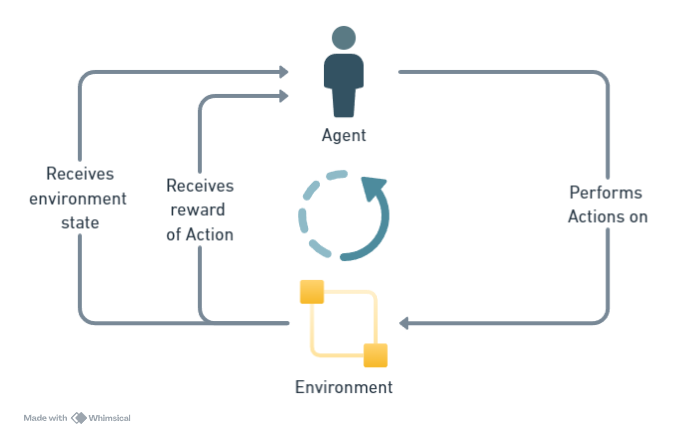
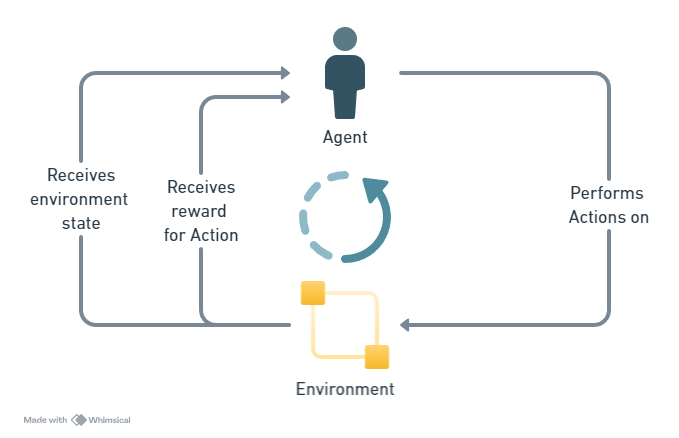
changed readme and did one last run

diff --git a/visualise.py b/visualise.py
@@ -1,0 +1,181 @@
+
+from numpy import average
+
+import warnings
+
+import graphviz
+import matplotlib.pyplot as plt
+import numpy as np
+
+
+def plot_stats(statistics, ylog=False, view=False, filename='avg_fitness.svg'):
+    """ Plots the population's average and best fitness. """
+    if plt is None:
+        warnings.warn("This display is not available due to a missing optional dependency (matplotlib)")
+        return
+
+    generation = range(len(statistics.most_fit_genomes))
+    best_fitness = [c.fitness for c in statistics.most_fit_genomes]
+    avg_fitness = np.array(statistics.get_fitness_mean())
+    stdev_fitness = np.array(statistics.get_fitness_stdev())
+
+    plt.plot(generation, avg_fitness, 'b-', label="average")
+    plt.plot(generation, avg_fitness - stdev_fitness, 'g-.', label="-1 sd")
+    plt.plot(generation, avg_fitness + stdev_fitness, 'g-.', label="+1 sd")
+    plt.plot(generation, best_fitness, 'r-', label="best")
+
+    plt.title("Population's average and best fitness")
+    plt.xlabel("Generations")
+    plt.ylabel("Fitness")
+    plt.grid()
+    plt.legend(loc="best")
+    if ylog:
+        plt.gca().set_yscale('symlog')
+
+    plt.savefig(filename)
+    if view:
+        plt.show()
+
+    plt.close()
+
+
+def plot_spikes(spikes, view=False, filename=None, title=None):
+    """ Plots the trains for a single spiking neuron. """
+    if plt is None:
+        warnings.warn("This display is not available due to a missing optional dependency (matplotlib)")
+        return
+
+    t_values = [t for t, I, v, u in spikes]
+    v_values = [v for t, I, v, u in spikes]
+    u_values = [u for t, I, v, u in spikes]
+    I_values = [I for t, I, v, u in spikes]
+
+    fig = plt.figure()
+    plt.subplot(3, 1, 1)
+    plt.ylabel("Potential (mv)")
+    plt.xlabel("Time (in ms)")
+    plt.grid()
+    plt.plot(t_values, v_values, "g-")
+
+    if title is None:
+        plt.title("Izhikevich's spiking neuron model")
+    else:
+        plt.title("Izhikevich's spiking neuron model ({0!s})".format(title))
+
+    plt.subplot(3, 1, 2)
+    plt.ylabel("Recovery (u)")
+    plt.xlabel("Time (in ms)")
+    plt.grid()
+    plt.plot(t_values, u_values, "r-")
+
+    plt.subplot(3, 1, 3)
+    plt.ylabel("Current (I)")
+    plt.xlabel("Time (in ms)")
+    plt.grid()
+    plt.plot(t_values, I_values, "r-o")
+
+    if filename is not None:
+        plt.savefig(filename)
+
+    if view:
+        plt.show()
+        plt.close()
+        fig = None
+
+    return fig
+
+
+def plot_species(statistics, view=False, filename='speciation.svg'):
+    """ Visualizes speciation throughout evolution. """
+    if plt is None:
+        warnings.warn("This display is not available due to a missing optional dependency (matplotlib)")
+        return
+
+    species_sizes = statistics.get_species_sizes()
+    num_generations = len(species_sizes)
+    curves = np.array(species_sizes).T
+
+    fig, ax = plt.subplots()
+    ax.stackplot(range(num_generations), *curves)
+
+    plt.title("Speciation")
+    plt.ylabel("Size per Species")
+    plt.xlabel("Generations")
+
+    plt.savefig(filename)
+
+    if view:
+        plt.show()
+
+    plt.close()
+
+
+def draw_net(config, genome, view=False, filename=None, node_names=None, show_disabled=True, prune_unused=False,
+             node_colors=None, fmt='svg'):
+    """ Receives a genome and draws a neural network with arbitrary topology. """
+    # Attributes for network nodes.
+    if graphviz is None:
+        warnings.warn("This display is not available due to a missing optional dependency (graphviz)")
+        return
+
+    # If requested, use a copy of the genome which omits all components that won't affect the output.
+    if prune_unused:
+        genome = genome.get_pruned_copy(config.genome_config)
+
+    if node_names is None:
+        node_names = {}
+
+    assert type(node_names) is dict
+
+    if node_colors is None:
+        node_colors = {}
+
+    assert type(node_colors) is dict
+
+    node_attrs = {
+        'shape': 'circle',
+        'fontsize': '9',
+        'height': '0.2',
+        'width': '0.2'}
+
+    dot = graphviz.Digraph(format=fmt, node_attr=node_attrs)
+
+    inputs = set()
+    for k in config.genome_config.input_keys:
+        inputs.add(k)
+        name = node_names.get(k, str(k))
+        input_attrs = {'style': 'filled', 'shape': 'box', 'fillcolor': node_colors.get(k, 'lightgray')}
+        dot.node(name, _attributes=input_attrs)
+
+    outputs = set()
+    for k in config.genome_config.output_keys:
+        outputs.add(k)
+        name = node_names.get(k, str(k))
+        node_attrs = {'style': 'filled', 'fillcolor': node_colors.get(k, 'lightblue')}
+
+        dot.node(name, _attributes=node_attrs)
+
+    used_nodes = set(genome.nodes.keys())
+    for n in used_nodes:
+        if n in inputs or n in outputs:
+            continue
+
+        attrs = {'style': 'filled', 'fillcolor': node_colors.get(n, 'white')}
+        dot.node(str(n), _attributes=attrs)
+
+    for cg in genome.connections.values():
+        if cg.enabled or show_disabled:
+            input, output = cg.key
+            a = node_names.get(input, str(input))
+            b = node_names.get(output, str(output))
+            style = 'solid' if cg.enabled else 'dotted'
+            color = 'green' if cg.weight > 0 else 'red'
+            width = str(0.1 + abs(cg.weight / 5.0))
+            dot.edge(a, b, _attributes={'style': style, 'color': color, 'penwidth': width})
+
+    dot.render(filename, view=view)
+
+    return dot
+
+    
+

diff --git a/05_NEAT_parallel.py b/05_NEAT_parallel.py
@@ -12,9 +12,11 @@ from Dragonwood.Player import Player
 from Dragonwood.Dice import Dice
 import Dragonwood.SharedRandom as sr
 
+import visualise
+
 sr.set_seed()
 
-generations = 1
+generations = 300
 iterations = 2000
 
 def eval_genome(genome, config):
@@ -58,21 +60,25 @@ def run_neat(config_file):
                          neat.DefaultSpeciesSet, neat.DefaultStagnation,
                          config_file)
 
-    # p = neat.Population(config)
-    p = neat.Checkpointer.restore_checkpoint('neat-checkpoint-279')
+    p = neat.Population(config)
+    # p = neat.Checkpointer.restore_checkpoint('neat-checkpoint-279')
     p.add_reporter(neat.StdOutReporter(True))
     stats = neat.StatisticsReporter()
     p.add_reporter(stats)
-    checkpointer = neat.Checkpointer(1)
+    checkpointer = neat.Checkpointer(50)
     p.add_reporter(checkpointer)
 
     pe = neat.ParallelEvaluator(multiprocessing.cpu_count(), eval_genome)
     winner = p.run(pe.evaluate, generations)
-    print('\nBest genome:\n{!s}'.format(winner))
+    stats.save()
 
     # Save the winner.
     with open('winner-feedforward', 'wb') as f:
         pickle.dump(winner, f)
+
+    visualise.draw_net(config, winner, True)
+    visualise.plot_stats(stats, ylog=False, view=True)
+    visualise.plot_species(stats, view=True)
 
 
 if __name__ == "__main__":

diff --git a/README.md b/README.md
@@ -4,7 +4,9 @@
 
 I, like most parents, enjoy playing board games with my kids and one they particularly enjoy is Dragonwood. I have played quite a few games with my kids and started to wonder what the best strategy was and how I can increase my probability of winning. It seems that my kids seem to have an innate understanding of the probabilities involved and have started to beat me more and more.
 
-My approach to understanding this problem is to create a way of playing thousands of games of Dragonwood which should enable me to test out strategies and see which are most successful. Once a suitable system has been developed a stretch goal would be to train an AI to play against a deterministic opponent and see if an AI can find a better approach than I can.
+I searched online for any strategies or explanation of the probabilites involved but could find nothing so decided I would approach the problem like I would any problem I usually encounter at work. I had been aware of the AI technique of Reinforcement Learning for a while but had never had a suitable problem to apply it to.
+
+So as an excuse to get better at Dragonwood, learn an new AI technique and to write some python I decided to see if I could teach an AI to play the game better than me and try and understand what strategies it uses.
 
 ## The Game
 
@@ -19,9 +21,13 @@ The players play Adventurer cards from their hand of up to 9 to capture one of 5
 - Scream - attack with cards that are all the same colour.
 - Reload - Draw a card
 
-The player gets a dice per card they are attacking with and uses them to defeat Dragonwood cards.
+The player gets a die per card they are attacking with and uses them to defeat Dragonwood cards. The Dragonwood cards being attacked have different defence values for each type of attack and the player must get that value or higher to beat that card. 
 
-The Dragonwood cards being attacked have different defence values for each type of attack and the player must get that value or higher to beat that card. The Dragonwood cards can be either creatures that give the player victory points when beaten or enhancements which give the user extra abilities or modifiers to their dice roll.
+The Dragonwood cards can be either creatures that give the player victory points when beaten or enhancements which give the user extra abilities or modifiers to their dice roll. For example one enhancement gives the user an extra 1 point to any stomp related dice roll.
+
+| ![Grumpy Troll](./docs/Grumpy%20Troll.png "Grumpy Troll") |![Ghost Disguise](./docs/Ghost%20Disguise.png "Ghost Disguise") |
+| :--: |:--: |
+| A Grumpy Troll creature card with strike, stomp and <br> scream defence numbers (9, 11, 9) and the number of <br> points for a successful attack (5)| A Ghost Duiguise enhancement card with strike, stomp and <br> scream defence numbers (8, 7, 10) and <br> the modification the player gains if the attack <br>is sucessful (2 points added to any scream attacks) |
 
 One point to note is that the dice are 6 sided dice but with the values 1, 2, 2, 3, 3, 4. This gives the dice an [Expected Value](https://en.wikipedia.org/wiki/Expected_value) per roll of 2.5.
 
@@ -42,7 +48,7 @@ Given the scope of the problem and the initial wide variety of possibilities, I 
 1. Develop an AI that can play Dragonwood using reinforcement learning that is as good, or better than the rule based algorithm.
 1. Learn some strategies from the AI to improve my chances against my kids.
 
-As a stretch goal for this activity I want to leave as much of the game logic to be determined by the AI. So the AI should be given as little of the games' rules and should learn through its interaction with the game instead of explicit structural learning.
+As a stretch goal for this activity I want to leave as much of the game logic to be determined by the AI. So the AI should be given as little of the games' rules as possible and should learn through its interaction with the game instead of having the game structure imposed on it.
 
 ### Goal 1 - Python Model
 
@@ -65,7 +71,7 @@ I did make a number of simplifying assumptions that shouldn't affect the overall
 After the model was created I needed to develop a rule based approach to selecting an attack. This is what I will eventually judge any AI's success or failure against. After trail and error the following algorithm was developed.
 
 1. Find all possible attacks and card combinations from a players current hand.
-1. For each card combo work out the expected value of the number of dice. This is the number of cards times by the Expected Value of the dice - 2.5.
+1. For each attack option work out the Expected Value of the number of dice for that attack. This is the number of cards times by the Expected Value of the dice - 2.5.
 1. Add any modifiers from enhancements
 1. Take away the score on the card that is trying to be captured.
 1. Pick the options with the lowest positive score.
@@ -78,7 +84,7 @@ After the model was created I needed to develop a rule based approach to selecti
 
 As part of deciding on the best algorithm I performed some analysis on what is the most successful formula for a rule based algorithm. To work out the the values of a and b that are most successful in the below formula:
 
-$$(c \times (Ev_{dice}+a)+b)- score$$
+$$(c \times (Ev_{dice}+a)+b)- {card\ defence\ score}$$
 
 Where:
 
@@ -88,7 +94,7 @@ Where:
 
 To find the best values for a and b I kept 3 players' $a$ and $b$ values constant at 0 and then searched through candidate values running a thousand games for each combination and seeing which  gave the best points per turn. After running 10000 games the results showed the optimum formula was:
 
-$$(c \times (2.50+0.38)-0.13) - score$$
+$$(c \times (2.50+0.38)-0.13) - {card\ defence\ score}$$
 
 | ![Sensitivity Analysis](https://github.com/rodmonic/DragonWoodAI/blob/cb04a135d0b5841cf91336857bccf0b6db3221c4/docs/sentivity%20analysis.png "Sensitivity Analysis") |
 | :--: |
@@ -100,7 +106,11 @@ $$(c \times (2.50+0.38)-0.13) - score$$
 
 Reinforcement Learning is a paradigm within machine learning where an AI controlled agent learns optimal behaviour within an environment by exploring actions and seeing their impact on a reward function. The main advantage of reinforcement learning is that we do not need a labelled data set on which to train our model, it also works well within games as we have an easily identifiable agent in the form of players.
 
-Reinforcement learning involves the interaction of the following elements:
+The diagram and definition below shows how the various elements within a Reinforcement Learning problem interact. 
+
+| ![Learning Diagram](./docs/Learning%20diagram.png "Learning Diagram") |
+| :--: |
+| Learning diagram |
 
 - **Environment.** The environment is the entity we are a looking to learn from. In our case this is the Dragonwood game and more specifically the Dragonwood model created in Python. The environment provides the agent with information it's state and the impact of the agent's actions.
 
@@ -112,13 +122,9 @@ Reinforcement learning involves the interaction of the following elements:
 
 - **Agent.** An AI controlled user that can perform actions on the environment given a game state and receives rewards. In our case there will be a single AI agent and a number of rule based users that will perform actions but which we wont refer to as Agents for clarity. We will refer to our AI controlled agent as Alice throughout.
 
-| ![Learning Diagram](./docs/Learning%20diagram.png "Learning Diagram") |
-| :--: |
-| Learning diagram |
-
 There are multiple different techniques within reinforcement learning, for this specific problem I investigated the below two:
 
-- [Q-Learning](https://en.wikipedia.org/wiki/Q-learning). A reinforcement learning technique where multiple runs of the game produce a table with the best action for every possible move a player can make.
+- [Q-Learning](https://en.wikipedia.org/wiki/Q-learning). A technique where multiple runs of the game produce a table with the best action for every possible move a player can make.
 
 - [Neuroevolution of augmenting topologies (NEAT)](https://en.wikipedia.org/wiki/Neuroevolution_of_augmenting_topologies). A genetic algorithm where a neural network is varied over time to find the best performing architecture.
 
@@ -160,7 +166,7 @@ Given this definition the action-state space does become quite large.
 
 A very large action-state space means that the model will need to be run longer to make sure all possible combinations are investigated multiple times. One way to reduce the action-state space would be to simplify how the state is represented or to use Deep Q-Learning which uses a neural network to represent the Q-table. However, I felt that there might be other algorithms and techniques out there that would allow me to train the AI without simplification. this leads us to my second technique.
 
-#### NEAT Intro
+#### Introduction to NEAT
 
 NeuroEvolution of Augmenting Topologies (NEAT) is an algorithm developed in 2002 to generate and vary neural networks in a way based on genetic principals. The algorithm varies both the weights, biases and structure of the neural network by mutating and reproducing neural networks to find the best structure to maximise the reward function.
 
@@ -168,9 +174,9 @@ So instead of having a fixed network architecture where the best solution is fou
 
 #### NEAT Algorithm
 
-The algorithm works by starting with a user defined input and output layer. In our case it will be our attack option encoded as an input and our output will be a number in \[0,1\] to show how good the network thinks that move is.
+The algorithm works by starting with a user defined number of inputs and output. In our case it will be our attack option encoded as an input and our output will be a number in \[0,1\] to show how good the network thinks that move is.
 
-The input and output nodes will stay constant through the evolution but nodes can and will be added to the hidden layer and connections to those nodes will also be added according to the configuration of the process. This process is known as **mutation**.
+The input and output structure will stay constant through the evolution but nodes can and will be added to the network between the inputs and outputs and connections to those nodes will also be added according to the configuration of the process. This process is known as **mutation**.
 
 | ![Generation of networks](./docs/NEAT%20Networks.png "NEAT Networks") |
 | :--: |
@@ -182,7 +188,7 @@ Once networks have been generated/mutated and their fitness calculated, new netw
 
 | ![Reproduction](./docs/Reproduction.png "Reproduction") |
 | :--: |
-| reproduction |
+| Reproduction |
 
 The process is repeated for multiple generations with mutation, variation in the weights and reproduction all happening according to various hyperparameters within the process. Luckily all this is handled by a brilliant implementation of the algorithm in the [Neat-Python](https://neat-python.readthedocs.io/en/latest/index.html) library. The library also tracks a measure of the genetic diversity within the population and maintains a record of the best performing networks and whether a species has become stagnant i.e. has stopped improving.
 
@@ -212,7 +218,7 @@ This process is repeated until a certain number of iterations is passed or the r
 
 The reward function should be derived to make sure that the correct behaviour is being encouraged through the learning process. The reward function outputs a float number with higher being better. Initially, given our stretch goal of trying to make the AI learn rules instead of imposing rules on it, the AI was provided with a full list of possible attack options including ones that were statistically not possible to attain. I.e. the score of the card was higher than the highest possible dice roll for that option.
 
-The first iteration of our Reward function was simple it would be the average score recevied by that network:
+The first iteration of our Reward function was simple it would be the average score received by that network:
 
 $$\frac{\sum {score}}{number\ of\ iterations}$$
 
